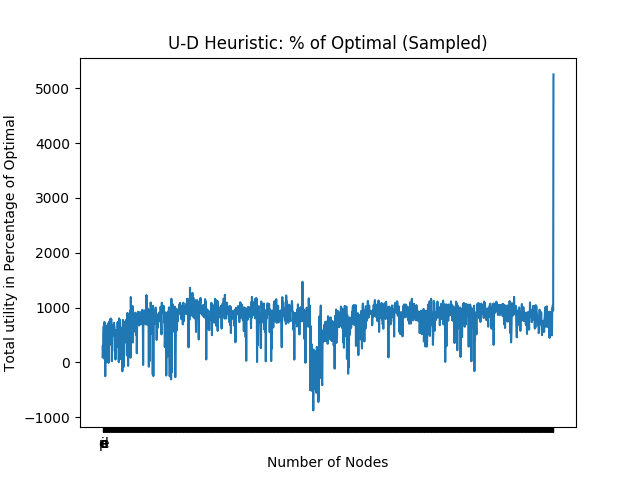
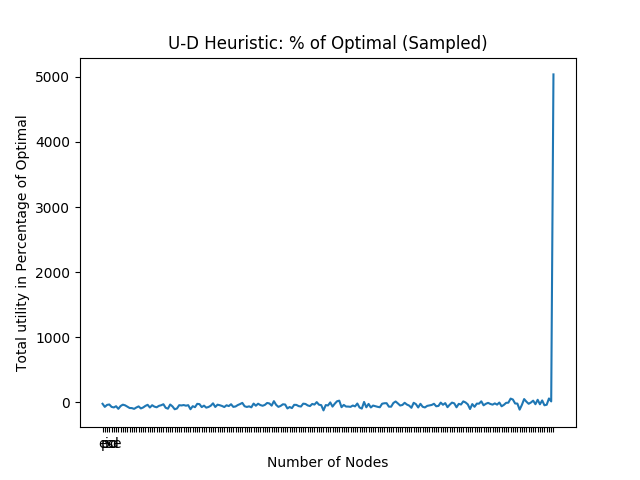
added n-sized environment insteado of np2 size one

diff --git a/RL/n_size_env.py b/RL/n_size_env.py
@@ -1,0 +1,152 @@
+import networkx as nx
+import numpy as np
+import math
+import copy
+from graph_helper import r_tree, get_root, DP_optimal, plot_graph
+import random
+
+class n_environment:
+    def __init__(self, G, independent_nodes, resources):
+        '''
+        :param G: networkx graph with utility and demand attribute set for each node
+        :param independent_nodes: Initial independent nodes of G
+        :param resources: resources per recovery step (used in calculation of maximum rounds)
+        '''
+        self.G = G
+        self.number_of_nodes = G.number_of_nodes()
+
+        # stays constant across episodes so when we reset we do it cleanly
+        self.G_constant = copy.deepcopy(G)
+        self.independent_nodes = independent_nodes
+
+        self.start_demand = nx.get_node_attributes(self.G_constant, 'demand')
+
+        # state is an indicator matrix for each node in G. 0 -> node is offline
+        # initially, every node is except for independent nodes
+        self.state = [0 for x in range(self.number_of_nodes)]
+        print('indepedent nodes:', self.independent_nodes)
+        for node in self.independent_nodes:
+            self.state[node] = 1
+
+        # max rounds is math.ceil(sum(d) / resources)
+        self.round = 1
+        self.resources = resources
+
+        # excess reward save
+        self.excess_resources = 0
+
+        # True when state is vector of 1's
+        self.done = False
+
+    def random_action(self):
+        """
+        Return a random action from our current state.
+        :return: random action (scalar)
+        """
+        not_recovered = [x if self.state[x] is 0 else None for x in range(self.number_of_nodes)]
+
+        return np.random.choice(not_recovered)
+
+    def step(self, action):
+        """
+        Take a step in our environment.
+        :param action: scalar corresponding to node to be recovered
+        :return: 3-tuple of (new_state, reward, done)
+        """
+        demand = nx.get_node_attributes(self.G_constant, 'demand')
+        util = nx.get_node_attributes(self.G_constant, 'util')
+
+        # apply excess resources
+        demand[action] -= self.excess_resources
+        rounds_to_recover = math.ceil(demand[action] / self.resources)
+        # now our new excess will be whatever we have left over after recovering our cur node
+        self.excess_resources = demand[action] % self.resources
+        demand[action] = 0
+
+        # Compute the subgraph before and after bringing the next node online.
+        # Before: we count utility of all functional nodes for rounds_to_recover - 1 nodes
+        self.G = self.G_constant.subgraph([x if self.state[x] == 1 else None for x in range(len(self.state))])
+
+        # count utility only for nodes which have a path to an independent node
+        count_utility = []
+        for node in self.G:
+            for id_node in self.independent_nodes:
+                if nx.has_path(self.G, id_node, node) and id_node != node:
+                    count_utility.append(node)
+
+        util_before = (rounds_to_recover - 1) * sum([util[x] if x in count_utility else 0 for x in range(self.number_of_nodes)])
+
+        # update state, calculate the "after" util
+        # print(demand)
+        self.state = [1 if demand[x] == 0 or self.state[x] == 1 else 0 for x in range(self.number_of_nodes)]
+        print(self.state)
+
+        # G becomes subgraph of functional nodes
+        self.G = self.G_constant.subgraph([x if self.state[x] == 1 else None for x in range(len(self.state))])
+
+        # count utility only for nodes which have a path to an independent node
+        count_utility = []
+        for node in self.G:
+            for id_node in self.independent_nodes:
+                if nx.has_path(self.G, id_node, node) and id_node != node:
+                    count_utility.append(node)
+
+        util_after = sum([util[x] if x in count_utility else 0 for x in range(self.number_of_nodes)])
+        reward = util_after + util_before
+
+        # check if we are done
+        if sum(self.state) == self.number_of_nodes:
+            self.done = True
+
+        # check if we have reached round limit, which is:
+        # ceil(sum(demands of non-independent nodes) / resources per turn)
+        independent_node_demand = [self.start_demand[x] for x in self.independent_nodes]
+
+        if self.round >= (math.ceil((sum(self.start_demand.values()) - sum(independent_node_demand))/ self.resources)):
+            self.done = True
+
+        self.round += rounds_to_recover
+
+        # update demand values in our current graph
+        nx.set_node_attributes(self.G_constant, name='demand', values=demand)
+
+        return demand, reward, self.done
+
+    def reset(self):
+        '''
+        Reset our state to starting state, return an initial observation
+
+        :return: initial state, 'False' done boolean
+        '''
+        self.G = copy.deepcopy(self.G_constant)
+        self.state = [0 for x in range(self.number_of_nodes)]
+        for node in self.independent_nodes:
+            self.state[node] = 1
+
+        # reset demands, we don't modify utils
+        nx.set_node_attributes(self.G_constant, name='demand', values=self.start_demand)
+
+        # True when state is vector of 1's
+        self.done = False
+        self.round = 1
+
+        return self.state, self.done
+
+
+def main():
+    # test
+    num_nodes = 8
+    G = r_tree(num_nodes)
+    plot_graph(G, 0, 'environment_debug_graph.png')
+    env = n_environment(G,[0], 1)
+    for x in range(1, num_nodes):
+        print(env.step(x))
+
+    env.reset()
+    print('Reset env =========================')
+    while not env.done:
+        print(env.step(random.randint(0, num_nodes-1)))
+        print()
+
+if __name__ == "__main__":
+    main()

diff --git a/RL/rl_environment.py b/RL/rl_environment.py
@@ -213,6 +213,7 @@ class environment:
 
         # apply resources to demand vector
         demand = [max(demand[x] - action[x], 0) for x in range(len(action))]
+        demand_state = demand.copy()
 
         # update state
         self.state = [1 if demand[x] == 0 or self.state[x] == 1 else 0 for x in range(len(action))]
@@ -256,7 +257,8 @@ class environment:
         end = time.time()
         # print('step time', end - start)
         
-        return self.state, reward, self.done
+        # return self.state, reward, self.done
+        return demand_state, reward, self.done
 
     def reset(self):
         '''

diff --git a/RL/q_progressive_recovery.py b/RL/q_progressive_recovery.py
@@ -76,7 +76,7 @@ DQN = DeepQNetwork(
     # save_path=save_path
 )
 
-EPISODES = 1500
+EPISODES = 200
 rewards = []
 total_steps_counter = 0
 episodes_since_max = 0
@@ -116,7 +116,7 @@ for episode in range(EPISODES):
         # 2. Take the chosen action in the environment
         observation_, reward, done = env.step(action)
         #print(observation_, reward, done)
-
+        reward *= 0.1
         # 3. Store transition
         DQN.store_transition(observation, action, reward, observation_)
 

diff --git a/RL/deep_q_network.py b/RL/deep_q_network.py
@@ -65,8 +65,8 @@ class DeepQNetwork:
         self.memory_s_ = np.zeros((n_x,self.memory_size))
 
         # Config for networks
-        n_l1 =2000
-        n_l2 = 2000
+        n_l1 = 200
+        n_l2 = 200
         W_init = tf.contrib.layers.xavier_initializer(seed=1)
         b_init = tf.contrib.layers.xavier_initializer(seed=1)
         self.build_eval_network(n_l1, n_l2, W_init, b_init)
